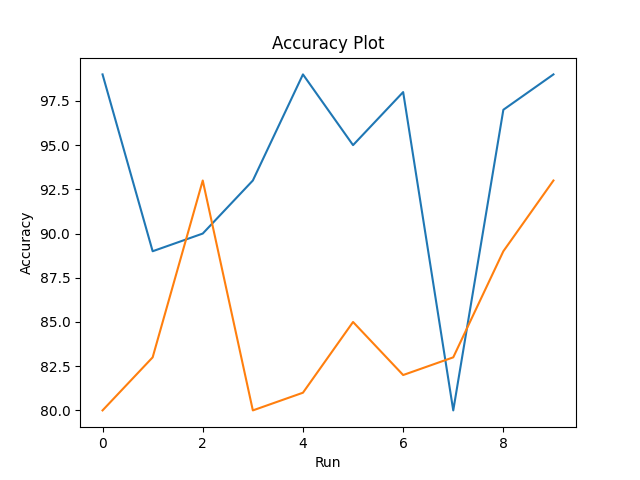
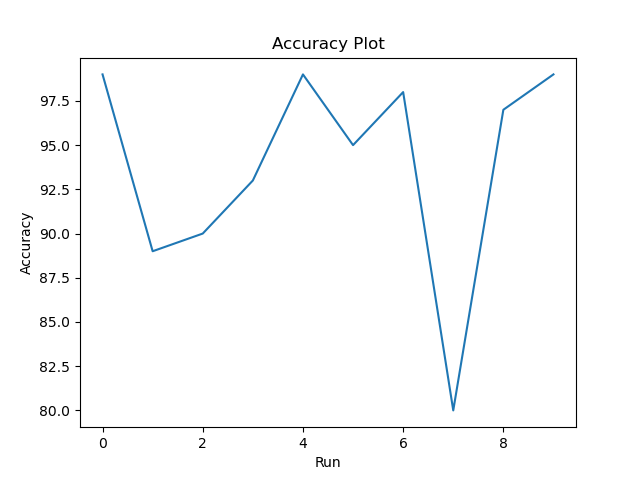
GUI MVP

diff --git a/app/templates/index.html b/app/templates/index.html
@@ -1,0 +1,53 @@
+<!DOCTYPE html>
+<html>
+<head>
+  <title>SCALO Simulator</title>
+  <link rel="stylesheet" href="{{ url_for('static', filename='css/theme.css') }}">
+</head>
+<body>
+  <h1>SCALO Simulator</h1>
+  <div class="simulate">
+      <form id="simulateForm" action="/output" method="POST">
+        <input placeholder="Pipeline" required="" type="text" name="pipeline"/>
+        <input placeholder="Number of runs" required="" type="number" name="numberRuns"/>
+        <div>
+          <h3>Visualization Options</h3>
+          <div>
+            <br>
+            <label for="accuracy">Accuracy</label>
+            <input type="checkbox" name="accuracy" value="accuracy" id="accuracy">
+            <br>
+
+            <label for="latency">Latency</label>
+            <input type="checkbox" name="latency" value="latency" id="latency">
+            <br>
+
+            <label for="power">Power</label>
+            <input type="checkbox" name="power" value="power" id="power">
+            <br>
+
+            <label for="custom">Custom</label>
+            <input type="checkbox" name="custom" value="custom" id="custom">
+            <br>
+
+            <div id="customPath" name="customPath" style="display: none;">
+              <label for="customPathInput">Custom Function Path</label>
+              <input type="text" id="customPathInput" name="customPathInput">
+            </div>
+          </div>
+        </div>
+        <button type="submit">SIMULATE</button>
+      </form>
+  </div>
+  <script>
+    document.getElementById("custom").addEventListener("change", function() {
+      var customPathDiv = document.getElementById("customPath");
+      if (this.checked) {
+        customPathDiv.style.display = "block";
+      } else {
+        customPathDiv.style.display = "none";
+      }
+    });
+  </script>
+</body>
+</html>

diff --git a/app/static/css/theme.css b/app/static/css/theme.css
@@ -1,0 +1,83 @@
+* {
+  margin: 0;
+  padding: 0;
+  font-family: Arial, Helvetica, sans-serif;
+}
+
+body {
+  background-color: #f6f8fb;
+  background-size: cover;
+  width: 100vw;
+  height: 100vh;
+  display: grid;
+  row-gap: -20em;
+  align-items: center;
+  justify-items: center;
+}
+
+
+h1 {
+  color: #00356b;
+  font-weight: bold;
+  font-size: 600%;
+  -webkit-text-stroke-width: 3px;
+  -webkit-text-stroke-color: black;
+}
+
+.simulate {
+  background: #e1eefd;
+  padding: 50px 100px;
+  border: 2px solid black;
+  box-shadow: 15px 15px 1px #00356b, 15px 15px 1px 2px black;
+  color: grey;
+  font-family: Arial, Helvetica, sans-serif;
+}
+
+input[type="checkbox"] {
+  display: inline-block;
+}
+
+input {
+  display: block;
+  /* width: 100%; */
+  font-size: 14pt;
+  line-height: 28pt;
+  margin-bottom: 28pt;
+  border: none;
+  border-bottom: 5px solid black;
+  background: #e1eefd;
+  min-width: 250px;
+  padding-left: 5px;
+  outline: none;
+  color: grey;
+}
+
+::placeholder {
+  color: grey
+}
+
+input:focus {
+  border-bottom: 5px solid #00356b;
+}
+
+button {
+  display: block;
+  margin: 0 auto;
+  line-height: 28pt;
+  padding: 0 20px;
+  background: #286dc0;
+  letter-spacing: 2px;
+  transition: 0.2s all ease-in-out;
+  outline: none;
+  border: 1px solid black;
+  box-shadow: 3px 3px 1px 1px #00356b, 3px 3px 1px 2px black;
+}
+button:hover {
+  background: black;
+  color: white;
+  border: 1px solid black;
+}
+
+::selection {
+  background: #00356b;
+}

diff --git a/app/templates/output.html b/app/templates/output.html
@@ -1,0 +1,33 @@
+<!DOCTYPE html>
+<html>
+<head>
+    <title>Simulation Results</title>
+    <link rel="stylesheet" href="{{ url_for('static', filename='css/theme.css') }}">
+</head>
+<body>
+    <h1>Simulation Results</h1>
+    <!-- TODO(btrevisa) add some kind of summary about the run-->
+
+    <h2>Visualizations</h2>
+    <div id="visualization-container">
+        {% if accuracy_selected %}
+        <img src="{{ url_for('static', filename='output_plots/accuracy_plot.png') }}" alt="Accuracy Plot">
+        <br>
+        {% endif %}
+
+        {% if latency_selected %}
+        <img src="{{ url_for('static', filename='output_plots/time_plot.png') }}" alt="Time Plot">
+        <br>
+        {% endif %}
+        
+        {% if power_selected %}
+        <img src="{{ url_for('static', filename='output_plots/power_plot.png') }}" alt="Power Plot">
+        <br>
+        {% endif %}
+
+        {% if custom_selected %}
+        <img src="{{ url_for('static', filename='output_plots/custom_plot.png') }}" alt="Custom Plot">
+        {% endif %}
+    </div>
+</body>
+</html>

diff --git a/app/app.py b/app/app.py
@@ -1,0 +1,46 @@
+from flask import Flask, render_template, request
+import os
+import visualize
+import visualize.visualize
+
+app = Flask(__name__)
+app.config['STATIC_FOLDER'] = 'static'
+
+@app.route("/")
+def index():
+    return render_template("index.html")
+
+@app.route('/output', methods=['POST'])
+def output():
+    # Get form data
+    pipeline = request.form['pipeline']
+    num_runs = int(request.form['numberRuns'])
+    accuracy_selected = False
+    latency_selected = False
+    power_selected = False
+    custom_selected = None
+
+    if 'accuracy' in request.form:
+        accuracy_selected = True
+    if 'latency' in request.form:
+        latency_selected = True
+    if 'power' in request.form:
+        power_selected = True
+    if 'custom' in request.form:
+        custom_path = request.form['customPathInput']
+        custom_selected = custom_path
+
+    # Perform simulation or processing here using the data
+    # TODO(btrevisan): connect with Shaan's logic.
+    # simulation_result = simulate(pipeline, num_runs)
+
+    # Create visualizations based on selected options
+    # visualize_filename = os.path.join('data', f"{pipeline}_{num_runs}.csv")
+    # TODO(btrevisan): Find ways to optimize data organization here. 
+    visualize_filename = "app/visualize/input_csv/dummy.csv"
+    visualize.visualize.plot_visualizations(visualize_filename, accuracy=accuracy_selected, time=latency_selected, power=power_selected, custom=custom_selected)
+   
+    return render_template('output.html', accuracy_selected=accuracy_selected, latency_selected=latency_selected, power_selected=power_selected, custom_selected=custom_selected)
+
+if __name__ == "__main__":
+    app.run(host="0.0.0.0")

diff --git a/app/visualize/visualize.py b/app/visualize/visualize.py
@@ -59,7 +59,7 @@ def plot_accuracy_visualization(df, df_comp, num_runs):
 
     # Create the plot
     plt.plot(x, y)
-    if (not df_comp.empty):
+    if (df_comp != None and not df_comp.empty):
         x_comp = df_comp.iloc[:, 0]
         y_comp = df_comp.iloc[:, 1]
         plt.plot(x_comp, y_comp, label='Comparison')
@@ -95,7 +95,7 @@ def plot_time_visualization(df, df_comp, num_runs):
 
     # Create the plot
     plt.plot(x, y)
-    if (not df_comp.empty):
+    if (df_comp != None and not df_comp.empty):
         x_comp = df_comp.iloc[:, 0]
         y_comp = df_comp.iloc[:, 2]
         plt.plot(x_comp, y_comp, label='Comparison')
@@ -131,7 +131,7 @@ def plot_power_visualization(df, df_comp, num_runs):
 
     # Create the plot
     plt.plot(x, y)
-    if (not df_comp.empty):
+    if (df_comp != None and not df_comp.empty):
         x_comp = df_comp.iloc[:, 0]
         y_comp = df_comp.iloc[:, 3]
         plt.plot(x_comp, y_comp, label='Comparison')

diff --git a/pipelines/seizure/shiao/pipeline.py b/pipelines/seizure/shiao/pipeline.py
@@ -4,7 +4,6 @@ from pipelines.parent import Pipeline
 from signals.parent import Window
 from asa import SVM, FFT, THR, LOADER
 
-
 # define the pipeline to test the fft PE
 class Shiao_Pipe(Pipeline):
 
